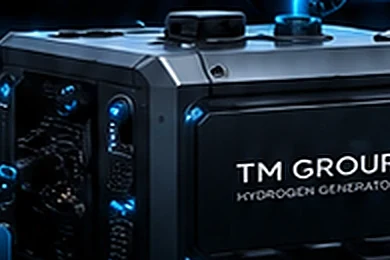
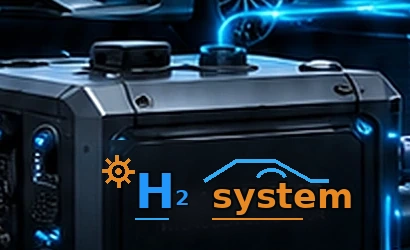
Add files via upload

diff --git a/css/styles.css b/css/styles.css
@@ -154,3 +154,40 @@ img{max-width:100%;display:block}
   .hero-bullets li{font-size:13px;line-height:1.25}
   .hero-image-frame{border-radius:16px}
 }
+
+
+/* FINAL FIXES: anchor offset, H2 System branding, mobile hero */
+html{scroll-behavior:smooth;scroll-padding-top:96px}
+section[id]{scroll-margin-top:96px}
+#benefits,#how,#audience,#calc,#reviews,#faq,#contacts{scroll-margin-top:96px}
+.brand-title{white-space:nowrap}
+.header-phone a{font-size:17px}
+h1 em{display:inline!important}
+.hero h1{max-width:640px}
+.hero-image-frame img{display:block}
+@media (min-width:761px){
+  .hero h1{font-size:54px;line-height:1.04;letter-spacing:-1.35px}
+}
+@media (max-width:760px){
+  html{scroll-padding-top:78px}
+  section[id],#benefits,#how,#audience,#calc,#reviews,#faq,#contacts{scroll-margin-top:78px}
+  .site-header,.header-inner{height:64px!important}
+  .header-inner{gap:10px!important}
+  .brand-title{font-size:19px!important;letter-spacing:.2px!important}
+  .brand-subtitle{font-size:8px!important;letter-spacing:.45px!important;margin-top:5px!important}
+  .menu-toggle{width:40px!important;height:40px!important;min-width:40px!important;border-radius:12px!important}
+  .hero{padding-top:24px!important}
+  .eyebrow{max-width:100%;font-size:10.5px!important;line-height:1.25!important;padding:8px 10px!important;align-items:flex-start!important}
+  .hero h1{font-size:30px!important;line-height:1.12!important;letter-spacing:-.7px!important;margin-bottom:16px!important;max-width:100%!important}
+  .hero-lead{font-size:14.5px!important;line-height:1.45!important}
+  .hero-image-frame{border-radius:18px!important}
+  .hero-image-frame img{height:auto!important;min-height:0!important;object-fit:contain!important;object-position:center!important}
+  .neon-lines{display:none!important}
+  .h2-badge{left:12px!important;right:12px!important;bottom:12px!important;padding:10px 12px!important;justify-content:center!important}
+  .h2-badge span{font-size:12px!important;white-space:normal!important}
+  .h2-badge img{width:38px!important;height:38px!important}
+}
+@media (max-width:390px){
+  .hero h1{font-size:28px!important;line-height:1.13!important}
+  .eyebrow{font-size:10px!important}
+}

diff --git a/js/main.js b/js/main.js
@@ -17,6 +17,27 @@
     }));
   }
 
+  // Smooth anchor scroll with sticky header offset so section titles stay visible
+  qsa('a[href^="#"]').forEach((link) => {
+    link.addEventListener('click', (event) => {
+      const href = link.getAttribute('href');
+      if (!href || href === '#') return;
+      const target = qs(href);
+      if (!target) return;
+      event.preventDefault();
+      const header = qs('.site-header');
+      const offset = (header ? header.offsetHeight : 72) + 18;
+      const top = target.getBoundingClientRect().top + window.pageYOffset - offset;
+      window.scrollTo({ top, behavior: 'smooth' });
+      if (nav && toggle) {
+        nav.classList.remove('is-open');
+        document.body.classList.remove('is-menu-open');
+        toggle.setAttribute('aria-expanded', 'false');
+      }
+    });
+  });
+
+
   const observer = new IntersectionObserver((entries) => {
     entries.forEach((entry) => {
       if (entry.isIntersecting) {
